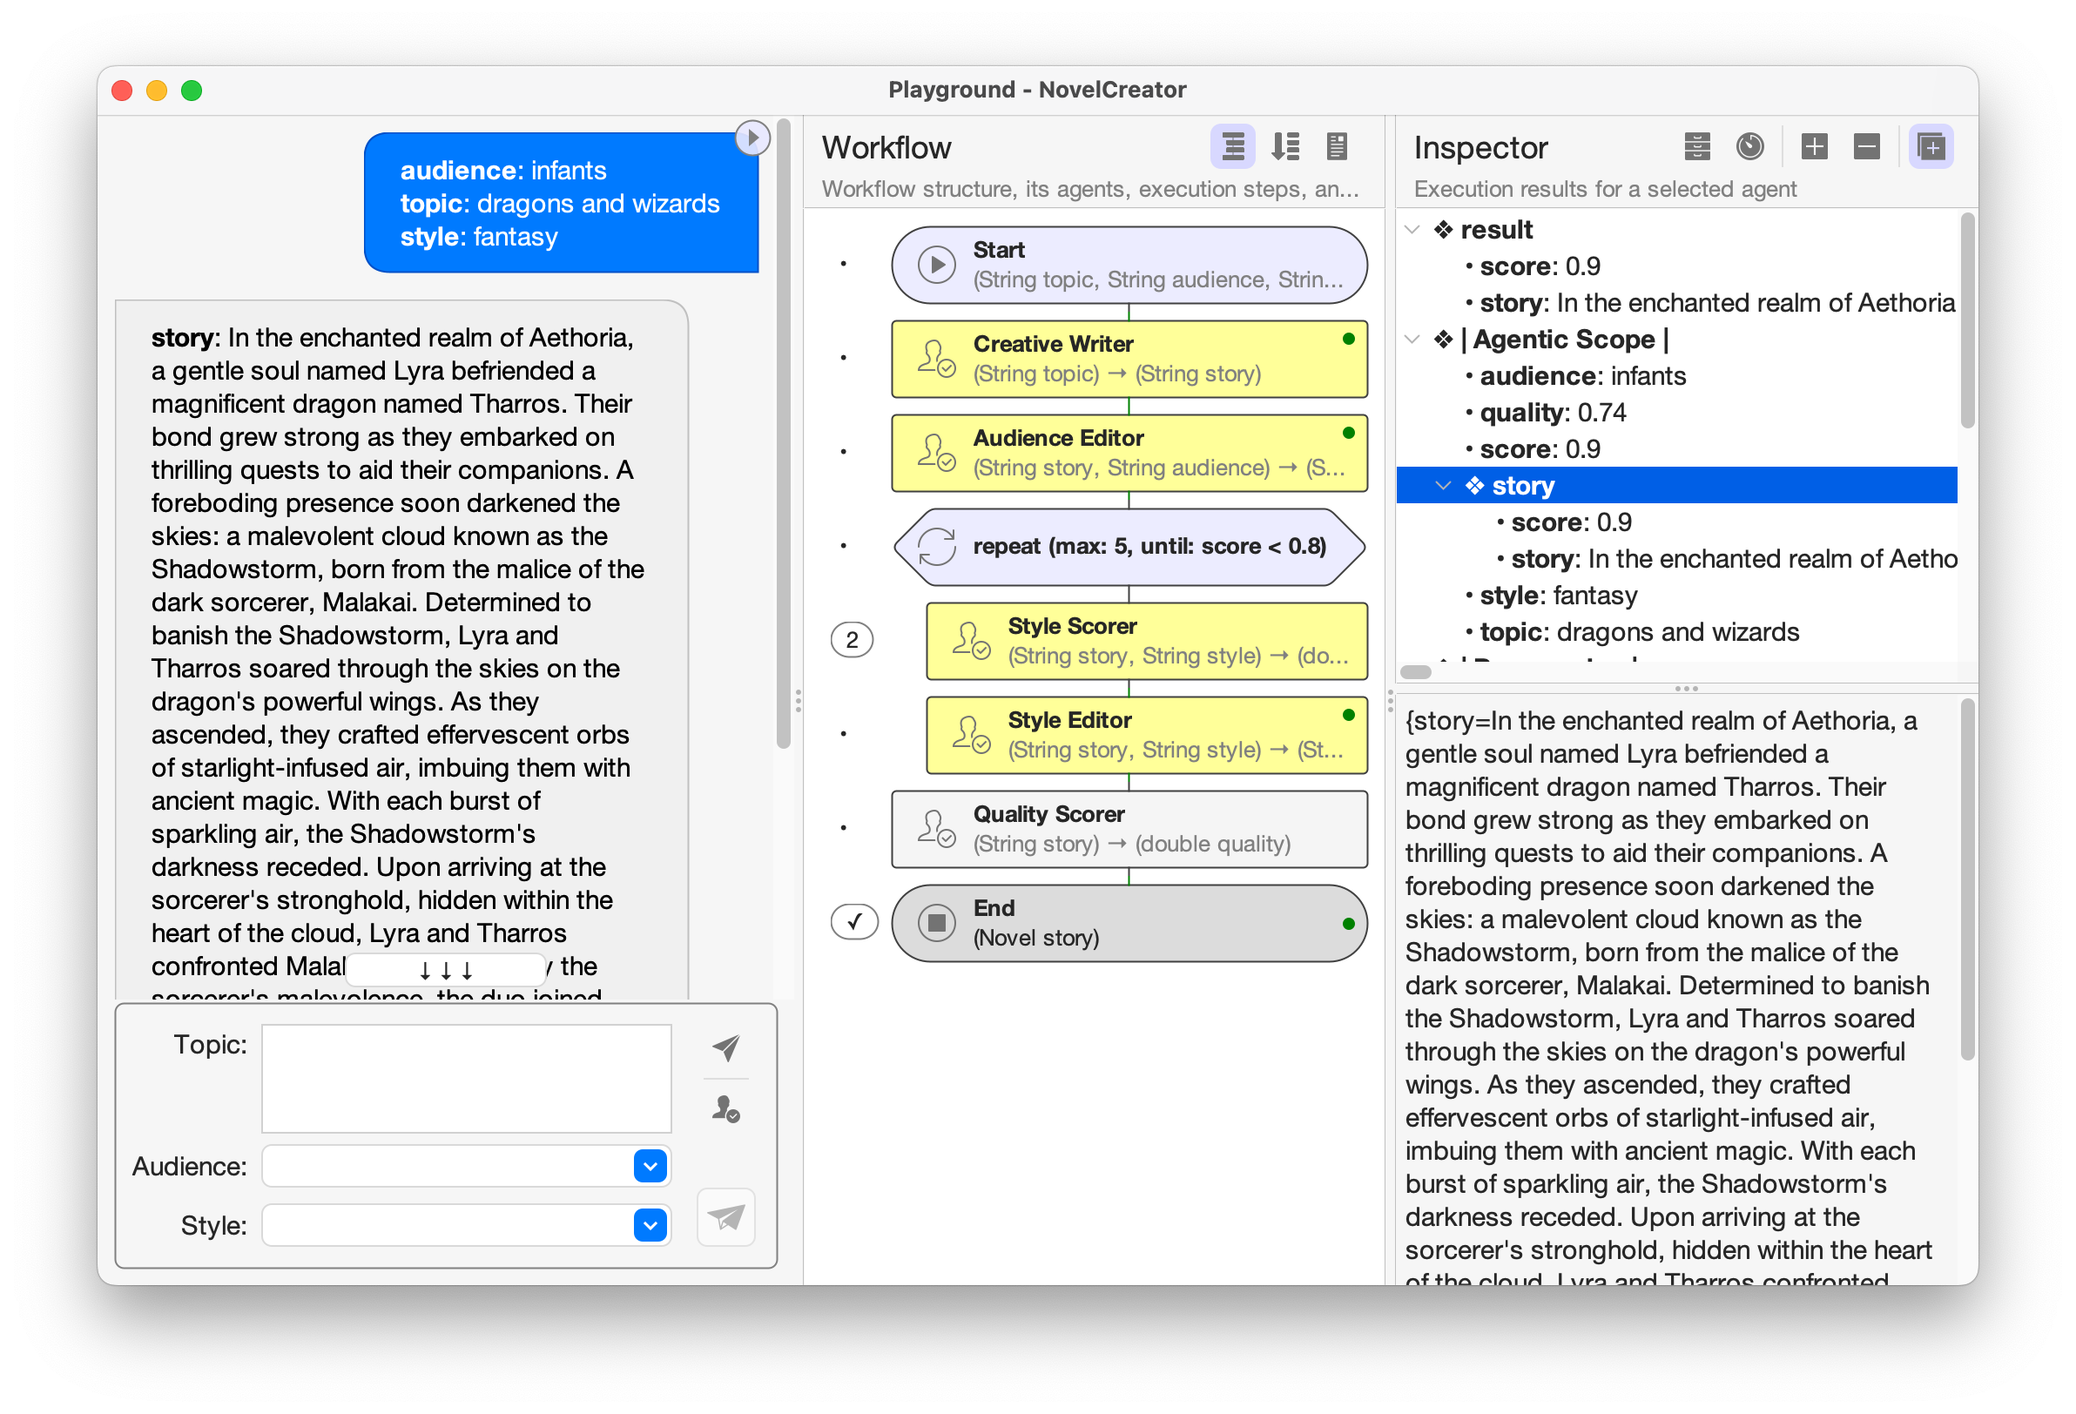
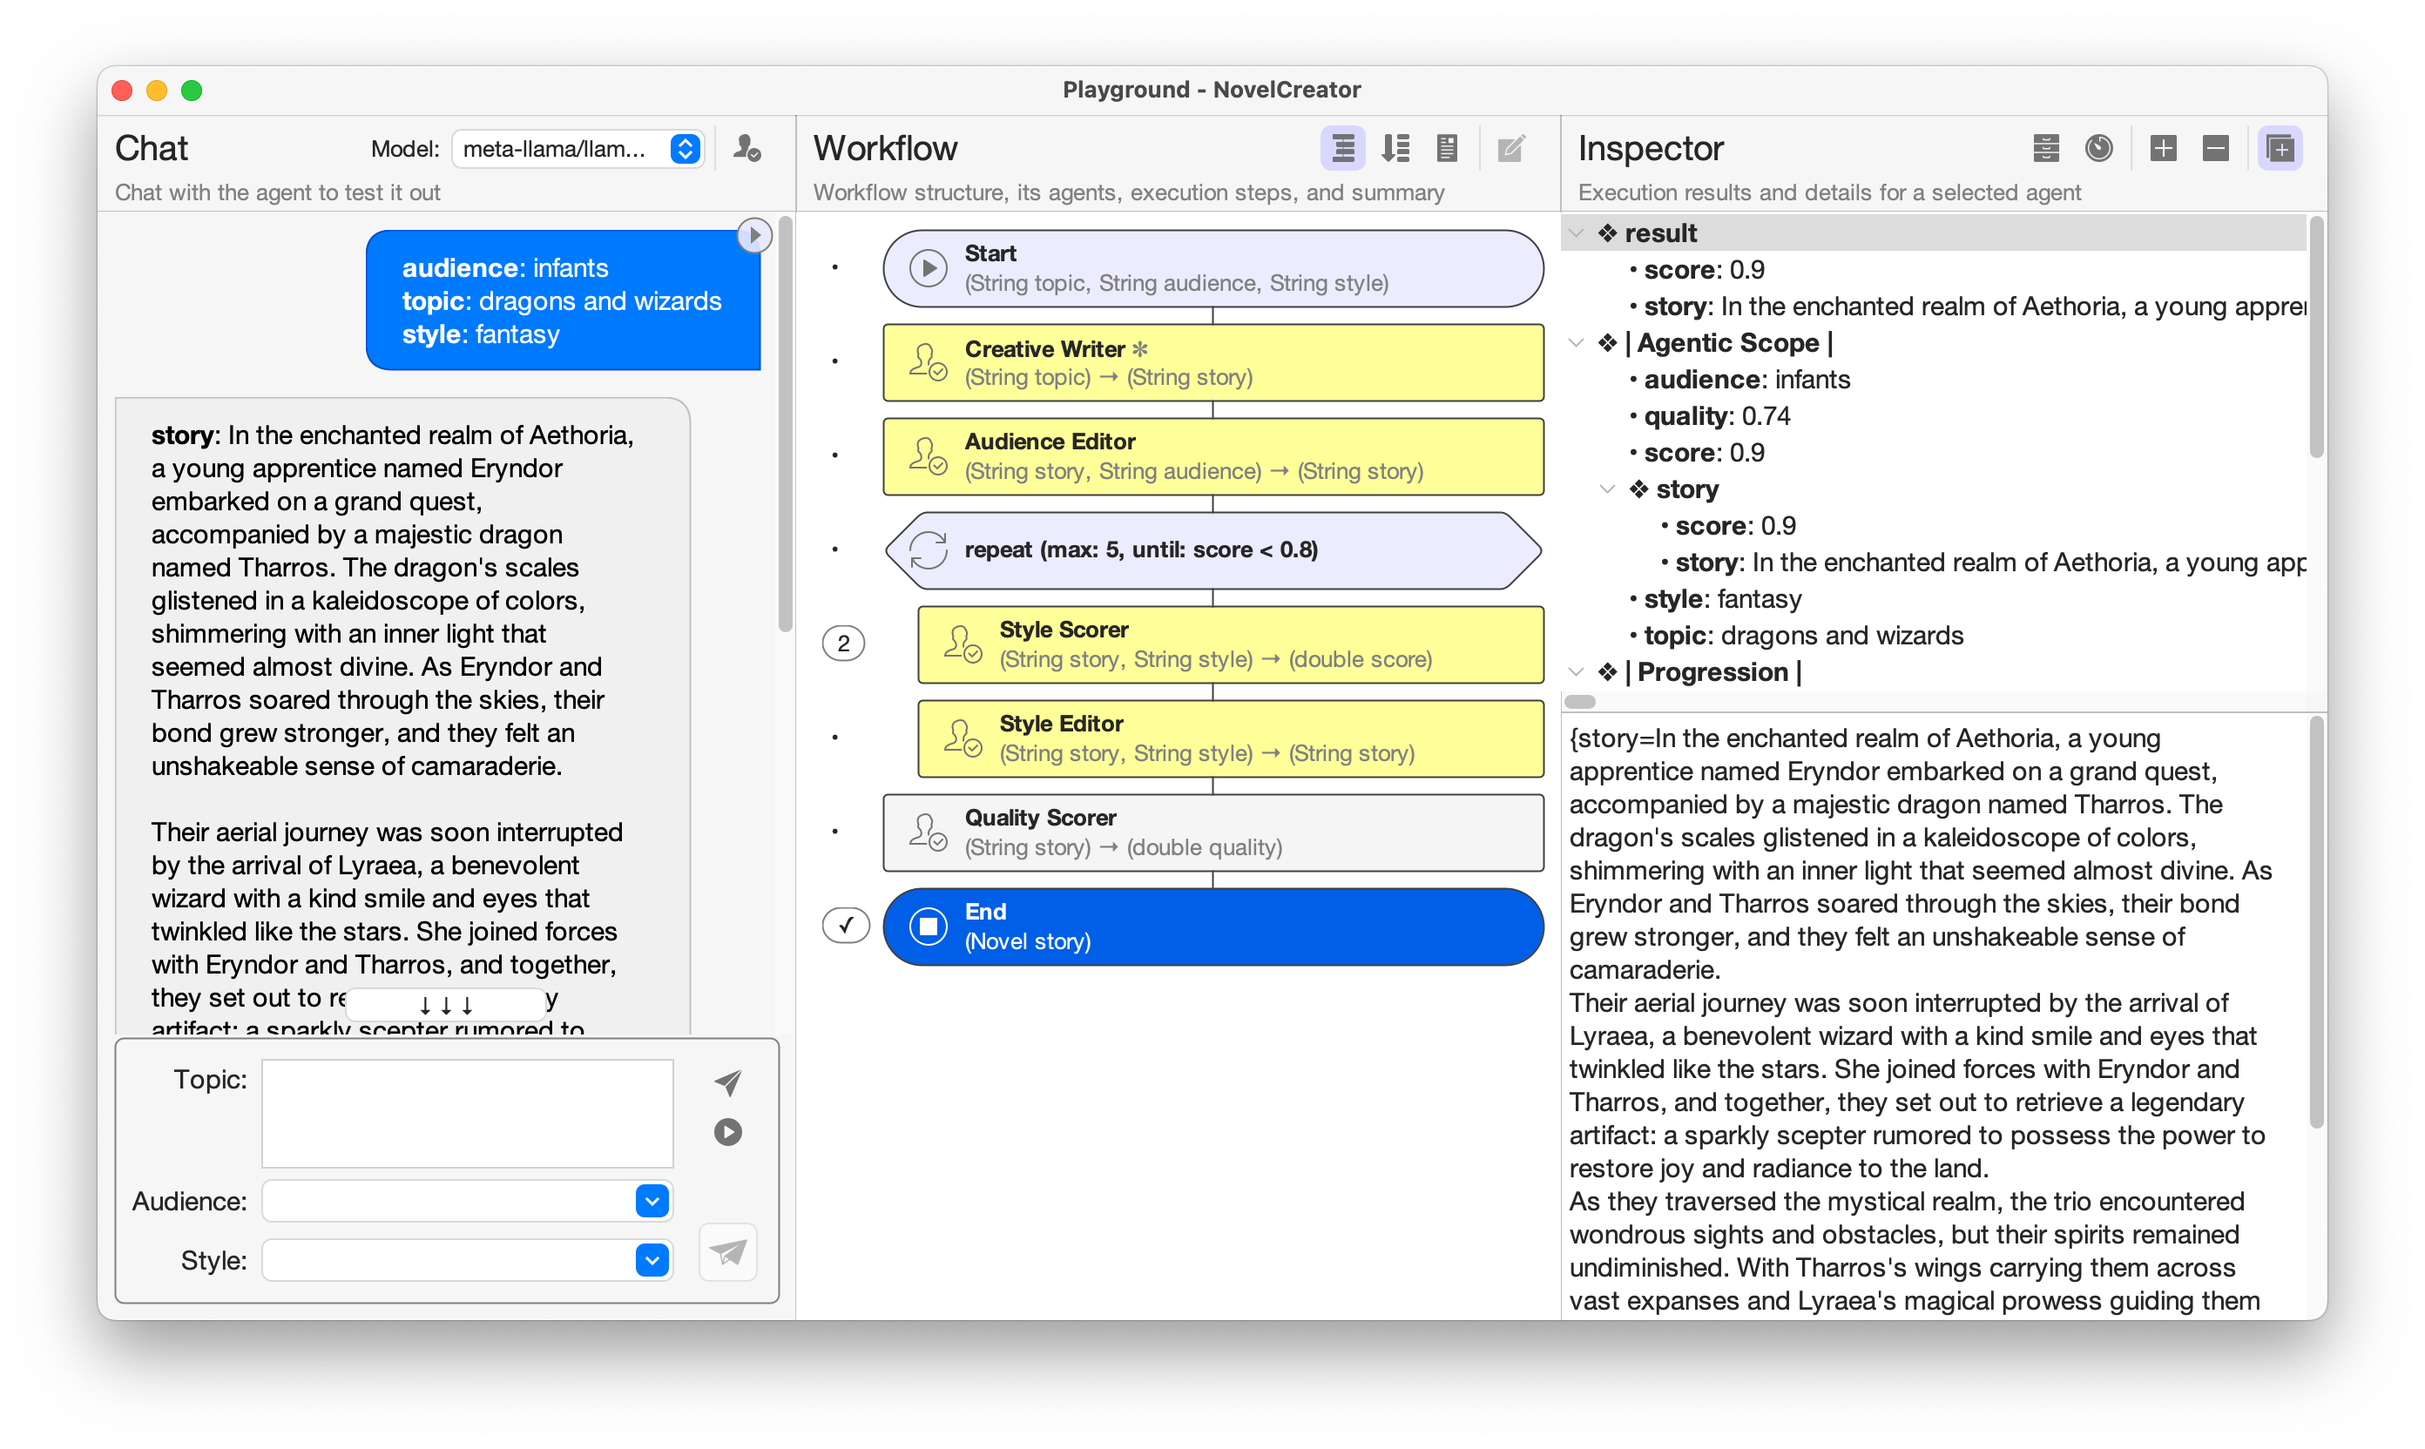
- docs and version updates

Changed region(s): [[0.031, 0.0308, 0.9622, 0.9236], [0.3414, 0.7697, 0.3725, 0.8005]]

diff --git a/src/test/java/com/gl/langchain4j/easyworkflow/TestSequentialAndRepeatableAgents.java b/src/test/java/com/gl/langchain4j/easyworkflow/TestSequentialAndRepeatableAgents.java
@@ -171,15 +171,15 @@ public class TestSequentialAndRepeatableAgents {
                      ↓ IN > "topic": dragons and wizards
                      ↓ IN > "style": fantasy
                      -----------------------
-                           ↓ IN: UserMessage { name = null contents = [TextContent { text = "You are a creative writer. Generate a draft of a story no more than 3 sentences long around the\\ngiven topic.\\nReturn only the story and nothing else.\\nThe topic is dragons and wizards.\\n" }] }
+                           ↓ IN: UserMessage { name = null, contents = [TextContent { text = "You are a creative writer. Generate a draft of a story no more than 3 sentences long around the\\ngiven topic.\\nReturn only the story and nothing else.\\nThe topic is dragons and wizards.\\n" }], attributes = {} }
                      1. ▷ CreativeWriter
                            ↓ OUT > "story": In the mystical realm of Aethoria, ancient dragons forged an unlikely alliance with powerful wizards, uniting against a dark sorcerer who threatened to destroy their world. The dragons, with their fiery breath and scales as black as coal, soared through the skies alongside the wizards, who wielded magical staffs that crackled with electric energy. Together, they clashed in a spectacular battle against the dark sorcerer's legion of shadow creatures, their combined might shaking the foundations of Aethoria.
                      -----------------------
-                           ↓ IN: UserMessage { name = null contents = [TextContent { text = "You are a professional editor. Analyze and rewrite the following story to better align with the\\ntarget audience of infants.\\nReturn only the story and nothing else.\\nThe story is "In the mystical realm of Aethoria, ancient dragons forged an unlikely alliance with powerful wizards, uniting against a dark sorcerer who threatened to destroy their world. The dragons, with their fiery breath and scales as black as coal, soared through the skies alongside the wizards, who wielded magical staffs that crackled with electric energy. Together, they clashed in a spectacular battle against the dark sorcerer's legion of shadow creatures, their combined might shaking the foundations of Aethoria.".\\n" }] }
+                           ↓ IN: UserMessage { name = null, contents = [TextContent { text = "You are a professional editor. Analyze and rewrite the following story to better align with the\\ntarget audience of infants.\\nReturn only the story and nothing else.\\nThe story is "In the mystical realm of Aethoria, ancient dragons forged an unlikely alliance with powerful wizards, uniting against a dark sorcerer who threatened to destroy their world. The dragons, with their fiery breath and scales as black as coal, soared through the skies alongside the wizards, who wielded magical staffs that crackled with electric energy. Together, they clashed in a spectacular battle against the dark sorcerer's legion of shadow creatures, their combined might shaking the foundations of Aethoria.".\\n" }], attributes = {} }
                      2. ▷ AudienceEditor
                            ↓ OUT > "story": In a magical land, friendly dragons played with happy wizards. The dragons had shiny scales and could blow bubbles. The wizards had special sticks that made fun sparks. They all worked together to make the world a happy place. They chased the grumpy clouds away, and everyone was happy and played together!
                      -----------------------
-                           ↓ IN: UserMessage { name = null contents = [TextContent { text = "You are a critical reviewer. Give a review score between 0.0 and 1.0 for the following story based\\non how well it aligns with the style 'fantasy'.\\nReturn only the score and nothing else.\\nThe story is: "In a magical land, friendly dragons played with happy wizards. The dragons had shiny scales and could blow bubbles. The wizards had special sticks that made fun sparks. They all worked together to make the world a happy place. They chased the grumpy clouds away, and everyone was happy and played together!"\\n" }] }
+                           ↓ IN: UserMessage { name = null, contents = [TextContent { text = "You are a critical reviewer. Give a review score between 0.0 and 1.0 for the following story based\\non how well it aligns with the style 'fantasy'.\\nReturn only the score and nothing else.\\nThe story is: "In a magical land, friendly dragons played with happy wizards. The dragons had shiny scales and could blow bubbles. The wizards had special sticks that made fun sparks. They all worked together to make the world a happy place. They chased the grumpy clouds away, and everyone was happy and played together!"\\n" }], attributes = {} }
                      3. ▷ StyleScorer
                            ↓ OUT > "score": 0.6000000000000001
                      -----------------------
@@ -187,15 +187,15 @@ public class TestSequentialAndRepeatableAgents {
                      4. ▷ LineBreakpointAgent
                            ↓ OUT > "": SCORE (INLINE): 0.6000000000000001
                      -----------------------
-                           ↓ IN: UserMessage { name = null contents = [TextContent { text = "You are a professional editor. Analyze and rewrite the following story to better fit and be more\\ncoherent with the fantasy style.\\nReturn only the story and nothing else.\\nThe story is "In a magical land, friendly dragons played with happy wizards. The dragons had shiny scales and could blow bubbles. The wizards had special sticks that made fun sparks. They all worked together to make the world a happy place. They chased the grumpy clouds away, and everyone was happy and played together!".\\n" }] }
+                           ↓ IN: UserMessage { name = null, contents = [TextContent { text = "You are a professional editor. Analyze and rewrite the following story to better fit and be more\\ncoherent with the fantasy style.\\nReturn only the story and nothing else.\\nThe story is "In a magical land, friendly dragons played with happy wizards. The dragons had shiny scales and could blow bubbles. The wizards had special sticks that made fun sparks. They all worked together to make the world a happy place. They chased the grumpy clouds away, and everyone was happy and played together!".\\n" }], attributes = {} }
                      5. ▷ StyleEditor
                            ↓ OUT > "story": 0In a magical land, friendly dragons played with happy wizards. The dragons had shiny scales and could blow bubbles. The wizards had special sticks that made fun sparks. They all worked together to make the world a happy place. They chased the grumpy clouds away, and everyone was happy and played together!
                      -----------------------
-                           ↓ IN: UserMessage { name = null contents = [TextContent { text = "You are a critical reviewer. Give a review score between 0.0 and 1.0 for the following story based\\non how well it aligns with the style 'fantasy'.\\nReturn only the score and nothing else.\\nThe story is: "0In a magical land, friendly dragons played with happy wizards. The dragons had shiny scales and could blow bubbles. The wizards had special sticks that made fun sparks. They all worked together to make the world a happy place. They chased the grumpy clouds away, and everyone was happy and played together!"\\n" }] }
+                           ↓ IN: UserMessage { name = null, contents = [TextContent { text = "You are a critical reviewer. Give a review score between 0.0 and 1.0 for the following story based\\non how well it aligns with the style 'fantasy'.\\nReturn only the score and nothing else.\\nThe story is: "0In a magical land, friendly dragons played with happy wizards. The dragons had shiny scales and could blow bubbles. The wizards had special sticks that made fun sparks. They all worked together to make the world a happy place. They chased the grumpy clouds away, and everyone was happy and played together!"\\n" }], attributes = {} }
                      6. ▷ StyleScorer
                            ↓ OUT > "score": 0.8
                      -----------------------
-                           ↓ IN: UserMessage { name = null contents = [TextContent { text = "0In a magical land, friendly dragons played with happy wizards. The dragons had shiny scales and could blow bubbles. The wizards had special sticks that made fun sparks. They all worked together to make the world a happy place. They chased the grumpy clouds away, and everyone was happy and played together!" }] }
+                           ↓ IN: UserMessage { name = null, contents = [TextContent { text = "0In a magical land, friendly dragons played with happy wizards. The dragons had shiny scales and could blow bubbles. The wizards had special sticks that made fun sparks. They all worked together to make the world a happy place. They chased the grumpy clouds away, and everyone was happy and played together!" }], attributes = {} }
                      7. ▷ QualityScorer
                            ↓ OUT > "quality": 0.74
                      -----------------------

diff --git a/src/test/java/com/gl/langchain4j/easyworkflow/samples/SampleSequentialAndRepeatableAgents.java b/src/test/java/com/gl/langchain4j/easyworkflow/samples/SampleSequentialAndRepeatableAgents.java
@@ -104,7 +104,7 @@ public class SampleSequentialAndRepeatableAgents {
                 .agent(new QualityScorer())
                 .build();
 
-        Novel novel = novelCreator.createNovel("dragons and wizards", "infants", "fantasy", true, 3);
+        Novel novel = novelCreator.createNovel("dragons and wizards", "infants", "fantasy");
         System.out.println(novel);
         System.out.println("Agentic Scope: " + workflowDebugger.getAgenticScope().state());
         System.out.println(workflowDebugger.toString(true));
@@ -156,15 +156,7 @@ public class SampleSequentialAndRepeatableAgents {
 
                 @PlaygroundParam(description = "Story style", editorType = FormEditorType.EditableDropdown, editorChoices = {"comedy", "horror", "fantasy", "romance"})
                 @V("style")
-                String style,
-
-                @PlaygroundParam(description = "Is story explicit", editorType = FormEditorType.Default)
-                @V("explicitContent")
-                boolean explicitContent,
-
-                @PlaygroundParam(label = "Paragraphs", description = "Number of paragraphs to generate", editorType = FormEditorType.Default)
-                @V("numberOfParagraphs")
-                int numberOfParagraphs
+                String style
         );
     }
 

diff --git a/src/main/java/com/gl/langchain4j/easyworkflow/WorkflowDebugger.java b/src/main/java/com/gl/langchain4j/easyworkflow/WorkflowDebugger.java
@@ -913,7 +913,7 @@ public class WorkflowDebugger implements WorkflowContext.StateChangeHandler, Wor
      * Sets the user message template for a given agent class name. Use this method to alter a user message for a particular
      * agent class.
      *
-     * @param agentClass          The class of the agent.
+     * @param agentClassName          The class name of the agent.
      * @param userMessageTemplate The user message template string to associate with the agent class.
      */
     public void setUserMessageTemplate(String agentClassName, String userMessageTemplate) {

diff --git a/README.md b/README.md
@@ -48,7 +48,7 @@ To add EasyWorkflow to your build system, you can use the following Maven depend
 <dependency>
     <groupId>io.github.gregory-ledenev</groupId>
     <artifactId>langchain4j-easyworkflow</artifactId>
-    <version>1.0.0</version>
+    <version>1.0.1</version>
 </dependency>
 ```
 to get JavaDoc for it:
@@ -57,7 +57,7 @@ to get JavaDoc for it:
 <dependency>
     <groupId>io.github.gregory-ledenev</groupId>
     <artifactId>langchain4j-easyworkflow</artifactId>
-    <version>1.0.0</version>
+    <version>1.0.1</version>
     <classifier>javadoc</classifier>
 </dependency>
 ```
@@ -394,6 +394,15 @@ The GUI playground offers a modern and convenient interface to allow testing the
 
 ![](gui-playground.png)
 
+The following are the main features of GUI Playground:
+* Chat interface to run and test workflows.
+* Ability to switch chat models.
+* Ability to show execution details for any past requests.
+* Ability to share workflow structure, execution details, summary, changed user message templates and chat. 
+* View a workflow as structure, execution stages and AI generated summary.
+* Ability to change user message templates for certain agents to test and fine tune them interactively.
+* Ability to inspect execution details, Agentic Scope, and variables' progression.
+
 By default, GUI Playground shows a simple Chat UI. To show GUI Playground in advanced mode with ability to see structure and execution results — specify a Workflow Debugger.
 
 ```java
@@ -402,7 +411,7 @@ Playground playground = Playground.createPlayground(NovelCreator.class,
         workflowDebugger);
 ```
 
-If an agent requires multiple arguments, they are presented in a form layout for easier input. To customize form - use `@PlaygroundParam` annotation, where you can specify how each agent's method parameter should be rendered, its description, value choices etc.
+If an agent requires multiple arguments, they are presented in a form layout for easier input. To customize form - use `@PlaygroundParam` annotation, where you can specify how each agent's method parameter should be rendered, its description, value choices, etc.
 ```java
 public interface NovelCreator extends AgenticScopeOwner {
     @Agent(outputName = "story")
@@ -421,7 +430,17 @@ public interface NovelCreator extends AgenticScopeOwner {
 }
 ```
 
-You may check the runnable GUI playground  at [SampleConditionalAgentsPlayground.java](/src/test/java/com/gl/langchain4j/easyworkflow/samples/SampleConditionalAgentsPlayground.java)
+GUI Playground allows switching chat models to chat with. To allow that — supply several chat models:
+
+```java
+playground.setup(Map.of(
+        Playground.ARG_CHAT_MODELS, List.of(
+                new Playground.PlaygroundChatModel("meta-llama/llama-4-scout-17b-16e-instruct", metaLlamaModel),
+                new Playground.PlaygroundChatModel("openai/gpt-oss-120b", openAIModel)))
+);
+```
+
+You may check the runnable GUI playground at [SampleConditionalAgentsPlayground.java](/src/test/java/com/gl/langchain4j/easyworkflow/samples/SampleConditionalAgentsPlayground.java)
 
 ## Sample for Sequential and Repeatable Agents
 
